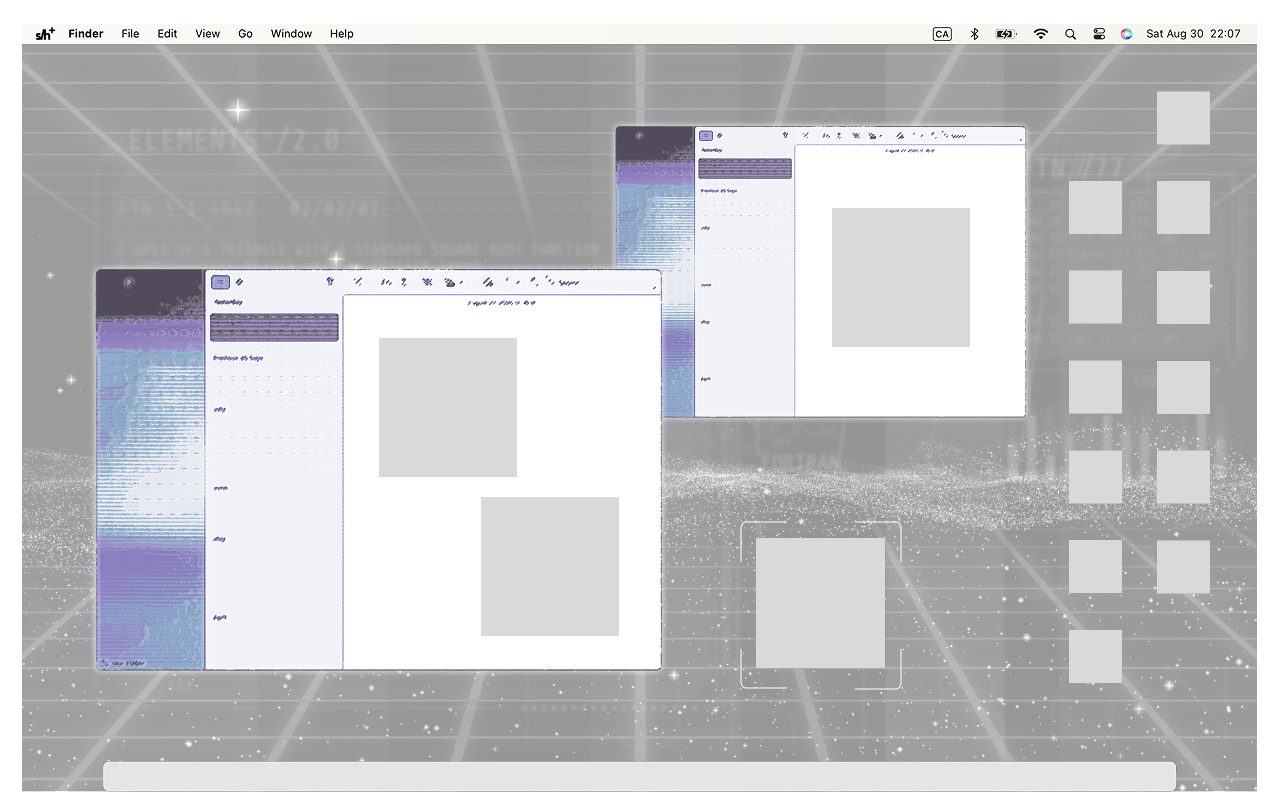
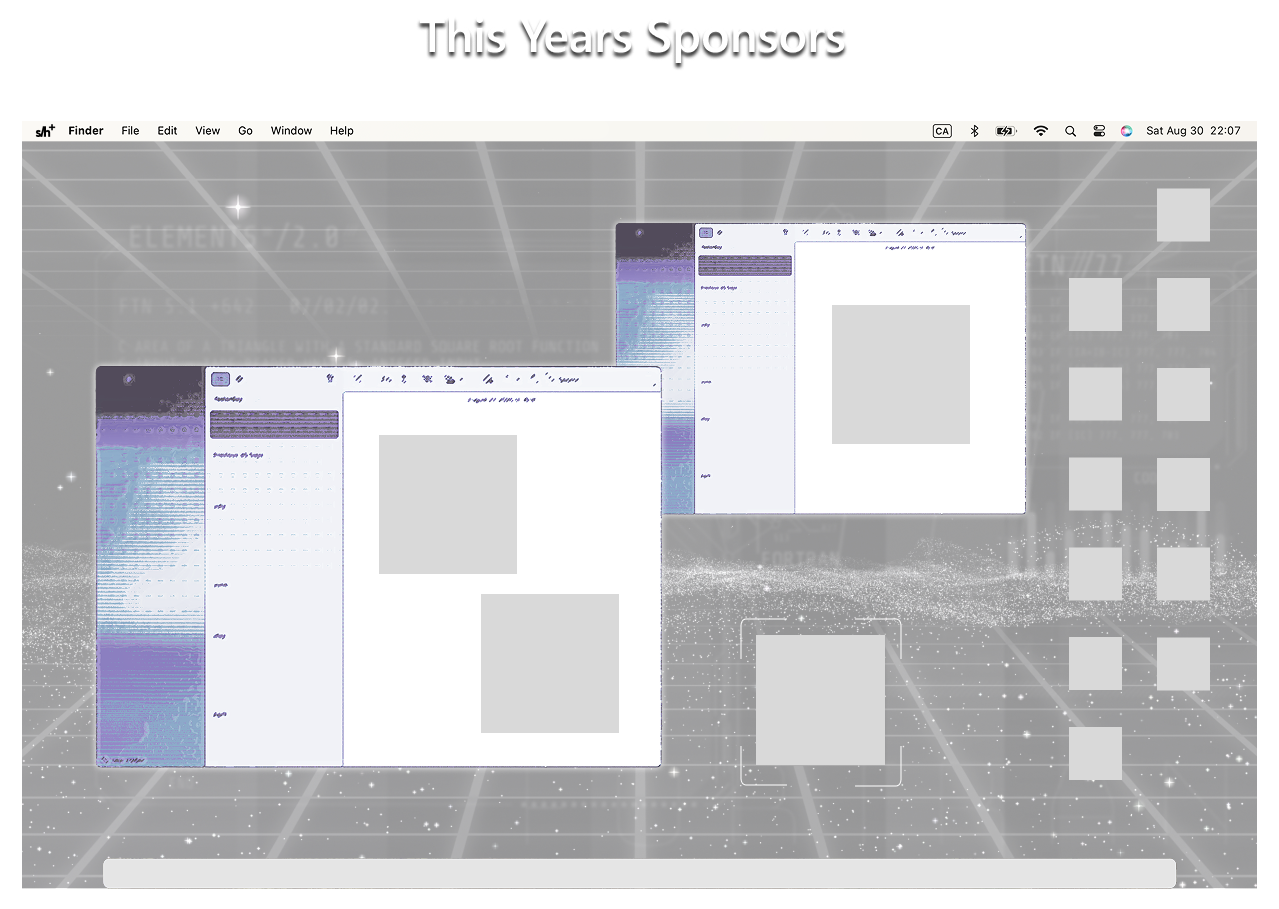
completed task

diff --git a/shehacks-web/src/app/components/about.js b/shehacks-web/src/app/components/about.js
@@ -4,8 +4,8 @@ export default function About() {
   return (
     <div className="w-full">
       {/* Mission Statement section */}
-        <section className="w-full flex justify-start mb-2 md:mb-4">
-        <div className="relative right-80 w-[min(90vw,700px)] md:w-[min(75vw,850px)]">
+      <section className="w-full flex justify-start py-8 sm:py-12 md:py-16">
+        <div className="relative right-4 sm:right-8 md:right-12 lg:right-16 w-[90vw] sm:w-[80vw] md:w-[70vw] lg:w-[60vw] max-w-[850px]">
           <Image
             src="/images/missioin-statement-chrome.png"
             alt="Our Mission section"
@@ -19,58 +19,59 @@ export default function About() {
             alt="Star decoration"
             width={70}
             height={70}
-            className="absolute -right-12 sm:-right-14 md:-right-16 top-[5%] w-12 h-12 sm:w-16 sm:h-16 md:w-[70px] md:h-[70px] select-none pointer-events-none"
+            className="absolute -right-8 sm:-right-12 md:-right-16 top-[5%] w-8 h-8 sm:w-12 sm:h-12 md:w-16 md:h-16 select-none pointer-events-none"
           />
           <Image
             src="/images/star.png"
             alt="Star decoration"
             width={40}
             height={40}
-            className="absolute -right-8 sm:-right-10 md:-right-[4.5rem] top-[15%] w-8 h-8 sm:w-10 sm:h-10 md:w-[40px] md:h-[40px] select-none pointer-events-none"
+            className="absolute -right-4 sm:-right-8 md:-right-12 top-[15%] w-5 h-5 sm:w-7 sm:h-7 md:w-10 md:h-10 select-none pointer-events-none"
           />
         </div>
       </section>
-      {/* Nintendo + Last Year */}
-      <section className="w-full flex flex-col items-center -mt-10 md:-mt-14">
 
-        {/* Nintendo section */}
-        <div className="w-full sm:w-[80vw] md:w-[85vw] lg:w-[800px] xl:w-[800px] px-4 sm:px-6 md:px-8">
+      {/* Nintendo section */}
+      <section className="w-full flex justify-center py-8 sm:py-12 md:py-16">
+        <div className="w-[90vw] sm:w-[80vw] md:w-[75vw] lg:w-[65vw] max-w-[700px] px-4">
           <Image
             src="/images/shehacks-nintendo.png"
             alt="SheHacks Nintendo section"
-            width={700}
+            width={500}
             height={600}
-            className="block w-full h-auto object-contain select-none pointer-events-none"
-            sizes="(min-width: 1280px) 1000px, (min-width: 1024px) 900px, (min-width: 768px) 85vw, 90vw"
+            className="w-full h-auto object-contain select-none pointer-events-none"
             priority
           />
         </div>
+      </section>
 
-        {/* Last Year section - FULL WIDTH */}
-        <div className="relative w-full h-[400px] sm:h-[500px] md:h-[600px] lg:h-[700px]">
-        <Image
+      {/* Last Year section */}
+      <section className="w-full flex justify-center py-8 sm:py-12 md:py-16">
+        <div className="w-[90vw] sm:w-[85vw] md:w-[80vw] lg:w-[75vw] max-w-[1100px] px-4">
+          <Image
             src="/images/last-year-we-had.png"
             alt="Last Year We Had"
-            fill
-            className="object-cover select-none pointer-events-none"
+            width={2000}
+            height={800}
+            className="w-full h-auto object-contain select-none pointer-events-none"
             priority
-        />
+          />
         </div>
-    </section>
-    {/* Sponsors section */}
-<section className="w-full flex justify-center mt-8 md:mt-12 lg:mt-16">
-  <div className="w-full max-w-screen-xl px-4">
-    <Image
-      src="/images/sponsors.png"
-      alt="Sponsors"
-      width={2000}
-      height={1800}
-      className="w-full h-auto object-contain select-none pointer-events-none"
-      sizes="100vw"
-      priority
-    />
-  </div>
-</section>
-</div>
+      </section>
+
+      {/* Sponsors section */}
+      <section className="w-full flex justify-center py-8 sm:py-12 md:py-16">
+        <div className="w-[85vw] sm:w-[75vw] md:w-[65vw] lg:w-[55vw] max-w-[800px] px-4">
+          <Image
+            src="/images/sponsors.png"
+            alt="Sponsors"
+            width={2000}
+            height={1800}
+            className="w-full h-auto object-contain select-none pointer-events-none"
+            priority
+          />
+        </div>
+      </section>
+    </div>
   );
 }

diff --git a/shehacks-web/src/app/components/brought-to-you-by.js b/shehacks-web/src/app/components/brought-to-you-by.js
@@ -1,0 +1,73 @@
+import React from 'react';
+import Image from 'next/image';
+
+const WitsHeroSection = () => {
+  return (
+    <section className="relative min-h-screen flex items-center justify-center px-6 py-20 overflow-hidden">
+      {/* Main Content Container */}
+      {/* CHANGE #1: remove max-w-7xl so the grid can span full width */}
+      <div className="mx-auto w-full grid lg:grid-cols-2 gap-16 items-center z-10">
+        
+        {/* Left Side - Logo */}
+       <div className="flex justify-start">
+        <Image
+            src="/images/wits-logo-chrome.png"
+            alt="WITS+ Logo"
+            width={4800}
+            height={3600}
+            sizes="(min-width:2024px) 96vw, 160vw"
+            className="object-contain w-[140vw] sm:w-[120vw] lg:w-[96vw] xl:w-[100vw] 2xl:w-[104vw] max-w-none h-auto -ml-35 lg:-ml-65"
+            priority
+        />
+        </div>
+                {/* Right Side - Content */}
+        <div className="text-white space-y-6">
+          <h3 
+            className="font-bold text-3xl leading-tight"
+            style={{ 
+              fontFamily: 'Work Sans, sans-serif',
+              fontWeight: 700,
+              fontSize: '28px',
+              lineHeight: '100%',
+              letterSpacing: '0%'
+            }}
+          >
+            Building a future for women+ in tech
+          </h3>
+          
+          <p 
+            className="text-lg leading-relaxed"
+            style={{ fontFamily: 'Work Sans, sans-serif' }}
+          >
+            WITS+ is a club at Western University that provides its community 
+            with initiatives and resources to inspire. We aim to empower women, 
+            women-identifying, and non-binary individuals in tech and equip 
+            them with the necessary skills to succeed in the industry.
+          </p>
+
+          <div className="pt-4">
+            <button className="relative group transition-transform hover:scale-105 duration-300">
+              <Image
+                src="/images/learn-more.png"
+                alt="Learn More"
+                width={220}
+                height={70}
+              />
+            </button>
+          </div>
+        </div>
+      </div>
+
+      {/* Background Pattern */}
+      <div className="absolute inset-0 opacity-10 pointer-events-none">
+        <div className="w-full h-full" 
+          style={{
+            backgroundImage: 'repeating-linear-gradient(90deg, rgba(255,255,255,0.03) 0px, rgba(255,255,255,0.03) 1px, transparent 1px, transparent 40px)',
+          }}
+        />
+      </div>
+    </section>
+  );
+};
+
+export default WitsHeroSection;

diff --git a/shehacks-web/src/app/page.js b/shehacks-web/src/app/page.js
@@ -1,6 +1,8 @@
 import Image from "next/image";
 import Link from "next/link";
 import About from "../app/components/about";
+import History from "../app/components/history";
+import BroughtToYouBy from "../app/components/brought-to-you-by";
 
 export default function Home() {
   return (
@@ -15,6 +17,14 @@ export default function Home() {
         />
        <section id="about" className="w-full mt-12">
           <About />
+        </section>
+       
+       <section id="history" className="w-full mt-12">
+          <History />
+        </section>
+
+        <section id="broughttoyouby" className="w-full mt-12">
+          <BroughtToYouBy />
         </section>
         <Link href="/olympics">Hacker Olympics {"-->"}</Link>
         <div className="w-full mt-12">

diff --git a/shehacks-web/src/app/components/history.js b/shehacks-web/src/app/components/history.js
@@ -1,0 +1,15 @@
+import Image from "next/image";
+
+export default function HistorySection() {
+  return (
+    <section className="flex flex-col items-center">
+      <Image
+        src="/images/history.png"
+        alt="History of SheHacks+"
+        width={1200} // adjust based on your design
+        height={600} // adjust based on your design
+        priority
+      />
+    </section>
+  );
+}
